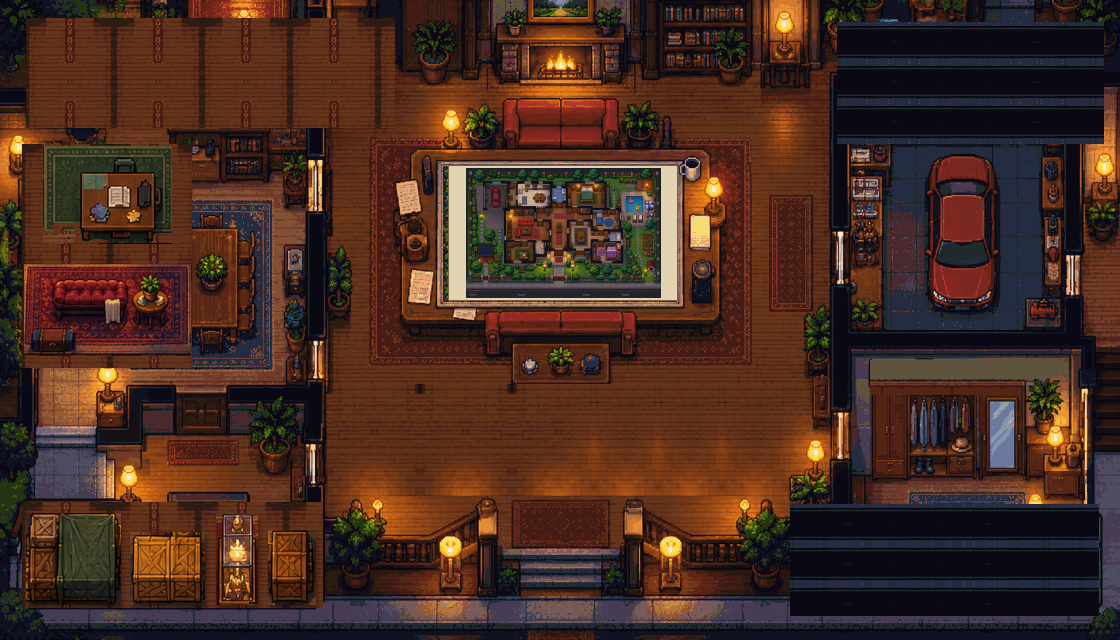
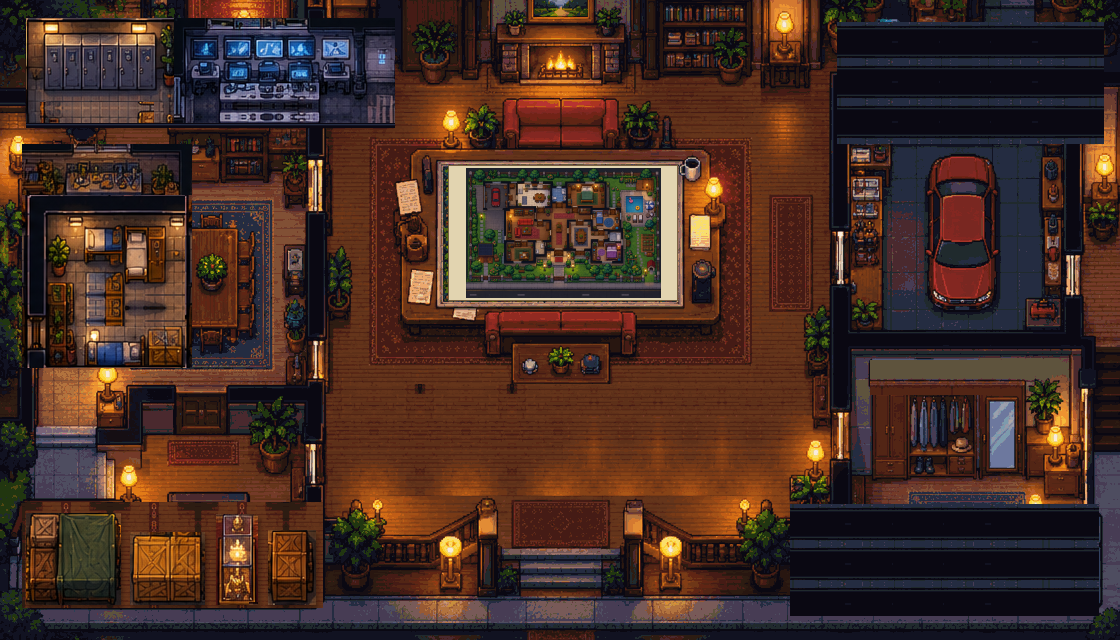
Safehouse: rooms in the west wing and the crew-size pads back
- The top-left, left of the fireplace, is rebuilt from the heist maps' own art at the lobby's
  16 px a tile: the crew's gear lockers and a surveillance room (CCTV wall, desks, console)
  in the north room, closed off with the lobby's wall line; a tool bench over a bunk room in
  the west room. The mock-up den is gone. Decor only: collision is unchanged.
- The 2 PLAYERS, 3 PLAYERS and 4+ PLAYERS pads under the planning table are drawn again
  (they went with the walk-in matchmaking). The pad for the room's size is lit, with a seat
  per crew member and the count; a pad brightens while someone stands on it.

Changed region(s): [[0.0, 0.0312, 0.375, 0.5938]]

diff --git a/src/main.ts b/src/main.ts
@@ -10,7 +10,7 @@ import { Profile } from './data/profile';
 import { type Diamond, distToSpot, type HidingSpot, isHidingSpot, PICKUP_REACH, RED_EXTRA_SLOW, SEARCH_MS, SEARCH_REACH, spotBox, spotCenter, spotRoom } from './data/diamonds';
 import { cleanName } from './data/names';
 import { BOOST, FLARE, HIDE_SEEK_MAP, HS_SCORE, type HsAbility, distToHideSpot, ESCAPE_MS, ESCAPE_ZONE, FLASHLIGHT_HALF_ANGLE, FLASHLIGHT_RANGE, type GameMode, GUN, HIDE_REACH, HIDER_LIGHT, type HideSpot, hideSpotCenter, hideSpotName, SEEKER_GLOW, SEEKER_HP } from './data/hideSeek';
-import { HANDOFF_REACH, type PingLabel, KO_HP, KO_RESPAWN, type Phase, placementRefusal, REVIVE_HP, SCORE, REVIVE_MS, REVIVE_REACH, saboteurMaxEnergy, trapSlots } from './data/round';
+import { CUSTOM_MIN, CUSTOM_PAD, HANDOFF_REACH, type PingLabel, KO_HP, KO_RESPAWN, type Phase, placementRefusal, REVIVE_HP, SCORE, REVIVE_MS, REVIVE_REACH, saboteurMaxEnergy, trapSlots } from './data/round';
 import { type PlacedTrap, TRAP_KINDS, type TrapKind, trapKind } from './data/trapKinds';
 import { Bandit, DRAW_H, DRAW_W } from './entities/Bandit';
 import { keyHeld, keyPressed, pollInput, readControls } from './input/Controls';
@@ -86,6 +86,9 @@ interface Remote {
   state: PlayerState;
   bandit: Bandit;
 }
+
+/** The crew-size pads under the planning table; the 4+ pad glows purple. */
+const PORTAL_COLORS: Record<number, string> = { 2: '#3ee6d4', 3: '#ffb02e', 4: '#9b6cff' };
 
 // Loot: one item in your hands at a time, 35% slower while carrying (Steady Carry halves
 // that). Bank it by walking into the GETAWAY zone on the street, in tiles.
@@ -2584,6 +2587,7 @@ async function boot() {
       if (scene === 'lobby') {
         ctx.save();
         ctx.scale(scale, scale);
+        drawPortalFloors(camX, camY);
         drawReadyRings(camX, camY);
         actors.forEach((b) => b.draw(ctx, camX, camY));
         ctx.restore();
@@ -2599,6 +2603,7 @@ async function boot() {
       if (scene === 'title') return;
       ctx.save();
       ctx.scale(scale, scale);
+      drawPortalFrames(camX, camY);
       ctx.globalAlpha = CHAR_GLOW;
       actors.forEach((b) => b.draw(ctx, camX, camY, false));
       ctx.restore();
@@ -2607,6 +2612,7 @@ async function boot() {
       drawHeadlights(camX, camY);
       particles.draw(ctx, camX, camY);
       ctx.restore();
+      drawPortalLabels(camX, camY);
       drawLobbySigns(camX, camY);
       if (settings.values.nameTags) drawNameTags(camX, camY);
       drawWaves(camX, camY);
@@ -3771,6 +3777,130 @@ async function boot() {
       textTag(label, sx, sy - 20 * dpr, color, Math.round(7 * dpr));
     }
     ctx.restore();
+  }
+
+  /** What a crew-size pad stands for: 2, 3, or the room's size on the 4+ pad (at least 4). */
+  const padSize = (p: { size: number }) => (p.size === CUSTOM_PAD ? Math.max(CUSTOM_MIN, myRoom?.size ?? 0) : p.size);
+  /** The pad for this room's size: lit, with a seat per crew member. */
+  const padActive = (p: { size: number }) => !!myRoom && padSize(p) === myRoom.size;
+  const padOccupied = (p: LobbyJson['portals'][number]) => [me, ...[...remotes.values()].map((r) => r.bandit)].some((b) => LobbyMap.inside(p, b.x, b.y));
+
+  /** The tinted floor of each pad, under the players; it pulses through the 3-2-1. */
+  function drawPortalFloors(camX: number, camY: number) {
+    for (const p of lobbyData.portals) {
+      const active = padActive(p);
+      ctx.save();
+      ctx.fillStyle = PORTAL_COLORS[p.size] ?? '#ffffff';
+      let alpha = active ? 0.36 + 0.08 * Math.sin(frame / 10) : 0.22;
+      if (padOccupied(p)) alpha += 0.08;
+      if (active && lobbyStart) alpha = 0.35 + 0.3 * Math.abs(Math.sin(frame / 6));
+      ctx.globalAlpha = alpha;
+      ctx.fillRect(p.x * ART_TILE - camX, p.y * ART_TILE - camY, p.w * ART_TILE, p.h * ART_TILE);
+      ctx.restore();
+    }
+  }
+
+  /** Neon frames, a crew icon per seat, and a sign plate; drawn over the lamplight so they glow. */
+  function drawPortalFrames(camX: number, camY: number) {
+    const pulse = 0.65 + 0.35 * Math.sin(frame / 15);
+    for (const p of lobbyData.portals) {
+      const size = padSize(p);
+      const color = PORTAL_COLORS[p.size] ?? '#ffffff';
+      const active = padActive(p);
+      const occupied = padOccupied(p);
+      const x = Math.round(p.x * ART_TILE - camX);
+      const y = Math.round(p.y * ART_TILE - camY);
+      const w = p.w * ART_TILE;
+      const h = p.h * ART_TILE;
+      ctx.save();
+      // Dark bezel, then a glowing double neon line.
+      ctx.strokeStyle = '#0e0a1a';
+      ctx.lineWidth = 4;
+      ctx.strokeRect(x, y, w, h);
+      ctx.shadowColor = color;
+      ctx.shadowBlur = 10 * dpr * (active || occupied ? 1.4 : pulse);
+      ctx.strokeStyle = color;
+      ctx.lineWidth = active ? 3 : 2;
+      ctx.strokeRect(x + 3, y + 3, w - 6, h - 6);
+      if (active) {
+        // Marching dashes inside the frame: this is your crew's size.
+        ctx.setLineDash([4, 4]);
+        ctx.lineDashOffset = -frame / 3;
+        ctx.globalAlpha = 0.9;
+        ctx.strokeRect(x + 9.5, y + 9.5, w - 19, h - 19);
+        ctx.setLineDash([]);
+        ctx.globalAlpha = 1;
+      }
+      ctx.globalAlpha = 0.55;
+      ctx.lineWidth = 1;
+      ctx.strokeRect(x + 6.5, y + 6.5, w - 13, h - 13);
+      ctx.shadowBlur = 0;
+      // Bright corner brackets.
+      ctx.globalAlpha = 1;
+      ctx.fillStyle = '#fff4e6';
+      for (const [cx, cy, dx, dy] of [[x, y, 1, 1], [x + w, y, -1, 1], [x, y + h, 1, -1], [x + w, y + h, -1, -1]]) {
+        ctx.fillRect(dx > 0 ? cx + 1 : cx - 9, dy > 0 ? cy + 1 : cy - 3, 8, 2);
+        ctx.fillRect(dx > 0 ? cx + 1 : cx - 3, dy > 0 ? cy + 1 : cy - 9, 2, 8);
+      }
+      // One little person per seat: lit for each crew member in the room.
+      const count = active ? myRoom!.members.length : 0;
+      // Up to 9 seats on the 4+ pad, so they squeeze together to fit.
+      const gap = Math.min(13, (w - 20) / Math.max(1, size - 1));
+      const left = x + w / 2 - ((size - 1) * gap) / 2;
+      for (let i = 0; i < size; i++) person(left + i * gap, y + h * 0.38, i < count ? color : 'rgba(255,244,230,0.3)');
+      // The sign plate above the pad, hung on two posts.
+      ctx.fillStyle = '#6b4529';
+      ctx.fillRect(x + 10, y - 4, 2, 4);
+      ctx.fillRect(x + w - 12, y - 4, 2, 4);
+      ctx.fillStyle = '#16101e';
+      ctx.fillRect(x + 4, y - 15, w - 8, 12);
+      ctx.shadowColor = color;
+      ctx.shadowBlur = 6 * dpr;
+      ctx.strokeStyle = color;
+      ctx.lineWidth = 1;
+      ctx.strokeRect(x + 4.5, y - 14.5, w - 9, 11);
+      ctx.shadowBlur = 0;
+      ctx.restore();
+    }
+  }
+
+  /** A tiny pixel person (head and shoulders) centred on (x, y), in art pixels. */
+  function person(x: number, y: number, color: string) {
+    const px = Math.round(x);
+    const py = Math.round(y);
+    ctx.fillStyle = color;
+    ctx.fillRect(px - 3, py - 8, 6, 6);
+    ctx.fillRect(px - 2, py - 9, 4, 1);
+    ctx.fillRect(px - 5, py, 10, 5);
+    ctx.fillRect(px - 4, py - 1, 8, 1);
+  }
+
+  /** Each pad's sign (2 PLAYERS, 3 PLAYERS, 4+ PLAYERS), and the crew count on the lit one. */
+  function drawPortalLabels(camX: number, camY: number) {
+    for (const p of lobbyData.portals) {
+      const size = padSize(p);
+      const color = PORTAL_COLORS[p.size] ?? '#ffffff';
+      const cx = ((p.x + p.w / 2) * ART_TILE - camX) * scale;
+      ctx.textAlign = 'center';
+      ctx.textBaseline = 'middle';
+      ctx.font = `${Math.round(8 * dpr)}px "Press Start 2P"`;
+      ctx.fillStyle = color;
+      ctx.fillText(p.size === CUSTOM_PAD && !padActive(p) ? `${CUSTOM_MIN}+ PLAYERS` : `${size} PLAYERS`, cx, (p.y * ART_TILE - 9 - camY) * scale);
+      if (!padActive(p)) continue;
+      const count = `${myRoom!.members.length}/${size}`;
+      const countY = ((p.y + p.h * 0.75) * ART_TILE - camY) * scale;
+      ctx.font = `${Math.round(13 * dpr)}px "Press Start 2P"`;
+      ctx.fillStyle = '#0e0a1a';
+      ctx.fillText(count, cx + 2 * dpr, countY + 2 * dpr);
+      ctx.fillStyle = '#fff4e6';
+      ctx.fillText(count, cx, countY);
+      ctx.font = `${Math.round(7 * dpr)}px "Press Start 2P"`;
+      const noteY = ((p.y + p.h - 0.4) * ART_TILE - camY) * scale;
+      ctx.fillStyle = '#0e0a1a';
+      ctx.fillText('YOUR CREW', cx + dpr, noteY + dpr);
+      ctx.fillStyle = '#fff4e6';
+      ctx.fillText('YOUR CREW', cx, noteY);
+    }
   }
 
   /** The "E  CUSTOMIZE" plate over the wardrobe; it lights up when you're close enough. */
